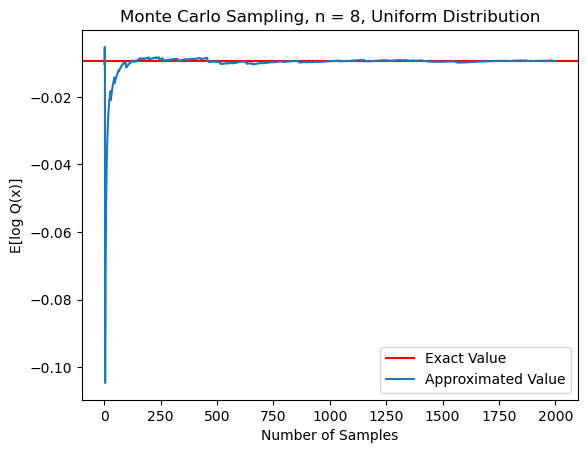
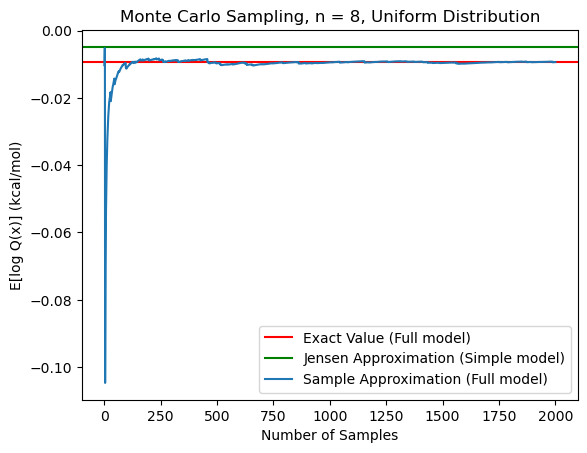
Modified figures

diff --git a/ncrna_design/sampling/graph.py b/ncrna_design/sampling/graph.py
@@ -6,22 +6,24 @@ if sys.argv[2] == 'samples':
         lines = file.read().split('\n')
         
         n = int(lines[0].split(', ')[0].split(': ')[1])
-        exact_value = float(lines[n+1].split(':  ')[1])
+        exact_value = float(lines[n+1].split(': ')[1])
+        jensen_value = float(lines[n+2].split(': ')[1])
 
         k = []
         val = []
-        for line in lines[n+2:n+2002]:
+        for line in lines[n+3:n+2003]:
             if len(line) > 0:
                 k.append(int(line.split()[0]))
                 val.append(float(line.split()[1]))
 
-        plt.axhline(y=exact_value, color='r', label='Exact Value')
+        plt.axhline(y=exact_value, color='r', label='Exact Value (Full model)')
+        plt.axhline(y=jensen_value, color='g', label='Jensen Approximation (Simple model)')
 
         plt.xlabel('Number of Samples')
-        plt.ylabel('E[log Q(x)]')
-        plt.title('Monte Carlo Sampling, n = 9, Uniform Distribution')
+        plt.ylabel('E[log Q(x)] (kcal/mol)')
+        plt.title(f'Monte Carlo Sampling, n = {n}, Uniform Distribution')
 
-        plt.plot(k, val, label='Approximated Value')
+        plt.plot(k, val, label='Sample Approximation (Full model)')
         plt.legend()
         plt.savefig(f'samples/{sys.argv[1]}.png', format='png', bbox_inches='tight')
 else:
